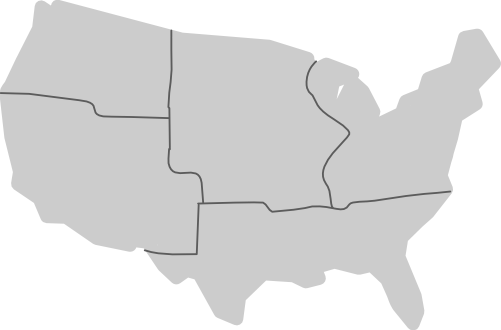
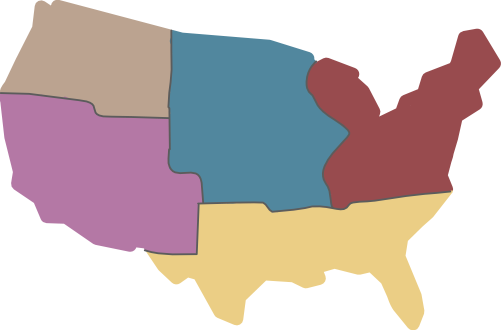
polished interactive map

diff --git a/index.html b/index.html
@@ -82,17 +82,7 @@ p {
 </script>
 
 
-<div class="interactivemap">
-<img src="images/mapofamerica.png" usemap="#image-map">
 
-<map name="image-map">
-    <area target="_self" alt="Southeast" title="Southeast" href="SoutheastRegion.html" coords="421,327,424,224,449,194,386,197,350,204,342,213,318,208,274,214,257,207,201,206,199,253,189,265,151,254,174,282,199,277,215,314,220,317,239,320,222,317,379,278,401,318,414,329,420,329,418,315,418,296,421,320,418,315,220,317" shape="poly">
-    <area target="_self" alt="Southwest" title="Southwest" href="SouthwestRegion.html" coords="167,119,193,252,101,253,13,189,2,92,135,118,153,121" shape="poly">
-    <area target="_self" alt="Central" title="Central" href="CentralRegion.html" coords="173,29,172,122,196,174,204,202,264,202,332,204,320,164,346,133,308,94,313,49" shape="poly">
-    <area target="_self" alt="Northeast" title="Northeast" href="NortheastRegion.html" coords="445,187,331,204,346,130,354,129,349,145,319,63,401,103,476,28,491,64,476,106,460,121" shape="poly">
-    <area target="_self" alt="Northwest" title="Northwest" href="Northwest.html" coords="42,0,167,29,159,112,91,99,3,87" shape="poly">
-</map>
-</div>
 
 
 
@@ -113,16 +103,26 @@ p {
     <h1> Birds of America </h1>
     <h3> &nbsp; &nbsp; &nbsp; &nbsp; Welcome to Birds of America! The United States can be divided into 5 
         Regions: Northeast, Northwest, Central, Southeast and Southwest. Within those regions there are so
-        many different kinds of birds. We can't wait to teach you about these beautiful creatures and after,
+        many &nbsp; different kinds of birds. We can't wait to teach you about these beautiful creatures and after,
         we hope that you love birds as much as we do! 
-        <br>
+        <br> <br> 
         To begin learning, select a region from a button below the map or using the drop down menu above to 
         see 5 different species from the selected region!
     </h3>
     <div style = "text-align: center;">
        
     </div>
-    
+<div class="interactivemap">
+<img src="images/mapofamerica.png" usemap="#image-map">
+
+<map name="image-map">
+    <area target="_self" alt="Southeast" title="Southeast" href="SoutheastRegion.html" coords="421,327,424,224,449,194,386,197,350,204,342,213,318,208,274,214,257,207,201,206,199,253,189,265,151,254,174,282,199,277,215,314,220,317,239,320,222,317,379,278,401,318,414,329,420,329,418,315,418,296,421,320,418,315,220,317" shape="poly">
+    <area target="_self" alt="Southwest" title="Southwest" href="SouthwestRegion.html" coords="167,119,193,252,101,253,13,189,2,92,135,118,153,121" shape="poly">
+    <area target="_self" alt="Central" title="Central" href="CentralRegion.html" coords="173,29,172,122,196,174,204,202,264,202,332,204,320,164,346,133,308,94,313,49" shape="poly">
+    <area target="_self" alt="Northeast" title="Northeast" href="NortheastRegion.html" coords="445,187,331,204,346,130,354,129,349,145,319,63,401,103,476,28,491,64,476,106,460,121" shape="poly">
+    <area target="_self" alt="Northwest" title="Northwest" href="NorthwestRegion.html" coords="42,0,167,29,159,112,91,99,3,87" shape="poly">
+</map>
+</div>
 </div>   
 </body> 
     

diff --git a/style.css b/style.css
@@ -174,11 +174,12 @@ details[open] .bird-name-V2::after {
 
 .interactivemap {
 
-display: flex;
-position: fixed; 
-left: 30%; 
-top: 40%;
+display: flex; 
+justify-content: center;
+margin: 15px auto 40px; 
 
 
-
+}
+.interactivemap img {
+  display: block;
 }
